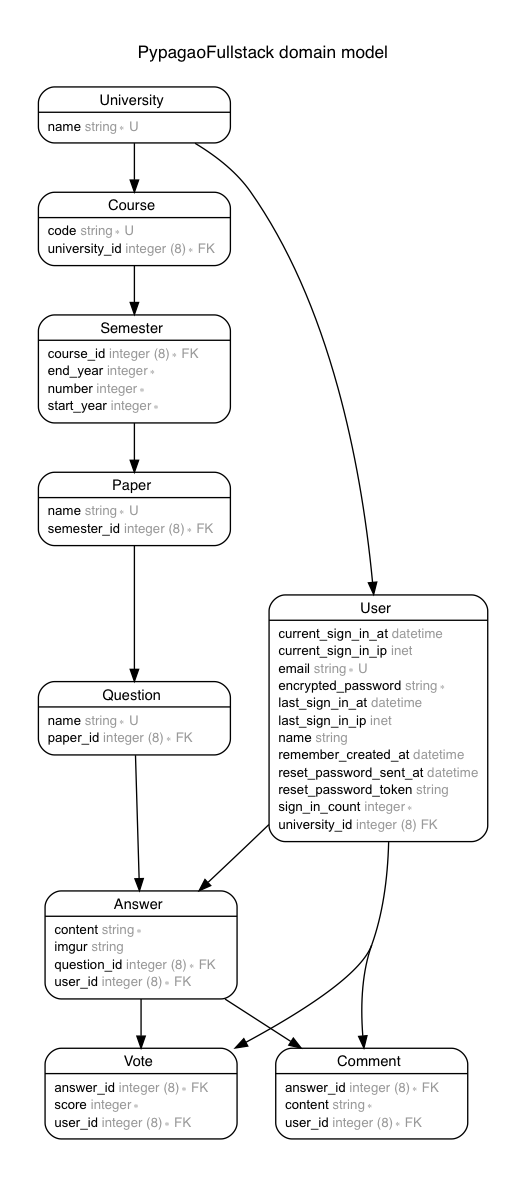
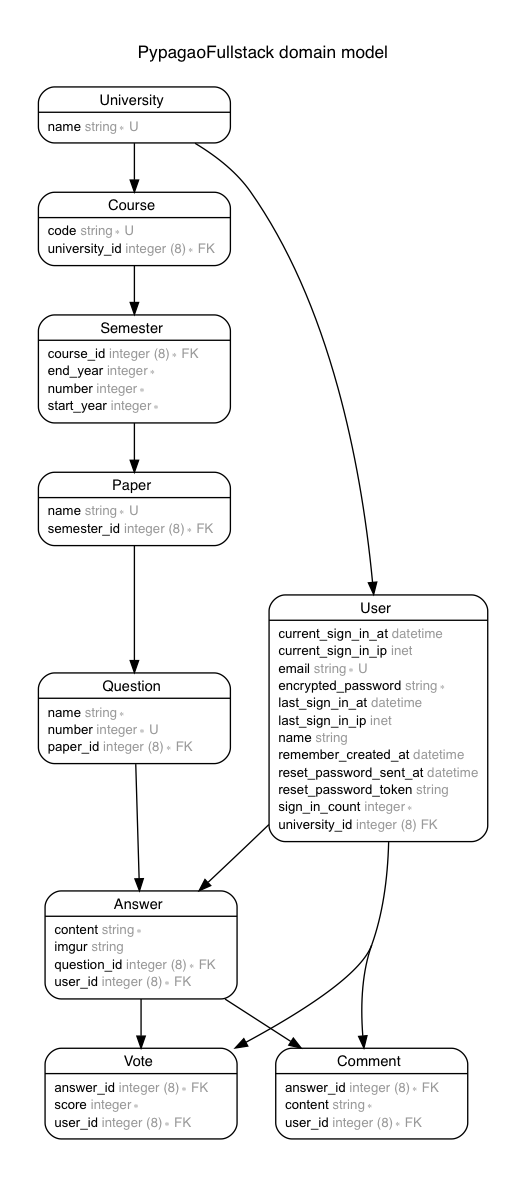
Implement upvote, downvote, answers#index

Changed region(s): [[0.0608, 0.5501, 0.4563, 0.6418]]

diff --git a/app/assets/stylesheets/questions.scss b/app/assets/stylesheets/questions.scss
@@ -1,0 +1,3 @@
+// Place all the styles related to the questions controller here.
+// They will automatically be included in application.css.
+// You can use Sass (SCSS) here: http://sass-lang.com/

diff --git a/app/assets/stylesheets/votes.scss b/app/assets/stylesheets/votes.scss
@@ -1,0 +1,3 @@
+// Place all the styles related to the votes controller here.
+// They will automatically be included in application.css.
+// You can use Sass (SCSS) here: http://sass-lang.com/

diff --git a/app/assets/javascripts/answers.js b/app/assets/javascripts/answers.js
@@ -1,0 +1,2 @@
+// Place all the behaviors and hooks related to the matching controller here.
+// All this logic will automatically be available in application.js.

diff --git a/app/assets/javascripts/questions.js b/app/assets/javascripts/questions.js
@@ -1,0 +1,2 @@
+// Place all the behaviors and hooks related to the matching controller here.
+// All this logic will automatically be available in application.js.

diff --git a/app/assets/javascripts/votes.js b/app/assets/javascripts/votes.js
@@ -1,0 +1,2 @@
+// Place all the behaviors and hooks related to the matching controller here.
+// All this logic will automatically be available in application.js.

diff --git a/app/assets/stylesheets/application.scss b/app/assets/stylesheets/application.scss
@@ -1,1 +1,5 @@
 @import 'bootstrap';
+@import 'font-awesome-sprockets';
+@import 'font-awesome';
+
+@import 'answers';

diff --git a/app/assets/stylesheets/answers.scss b/app/assets/stylesheets/answers.scss
@@ -1,0 +1,7 @@
+.selected {
+  color: orange;
+}
+
+.not-selected {
+  color: black;
+}

diff --git a/spec/models/vote_spec.rb b/spec/models/vote_spec.rb
@@ -1,11 +1,10 @@
 # frozen_string_literal: true
-
 # == Schema Information
 #
 # Table name: votes
 #
 #  id         :bigint(8)        not null, primary key
-#  score      :integer          not null
+#  score      :integer          default(0), not null
 #  created_at :datetime         not null
 #  updated_at :datetime         not null
 #  answer_id  :bigint(8)        not null
@@ -13,9 +12,10 @@
 #
 # Indexes
 #
-#  index_votes_on_answer_id  (answer_id)
-#  index_votes_on_score      (score) USING hash
-#  index_votes_on_user_id    (user_id)
+#  index_votes_on_answer_id              (answer_id)
+#  index_votes_on_answer_id_and_user_id  (answer_id,user_id) UNIQUE
+#  index_votes_on_score                  (score) USING hash
+#  index_votes_on_user_id                (user_id)
 #
 # Foreign Keys
 #
@@ -26,10 +26,12 @@
 require 'rails_helper'
 
 RSpec.describe Vote, type: :model do
+  let!(:vote) { create(:vote) }
   it { should belong_to(:user) }
   it { should belong_to(:answer) }
   it { should validate_presence_of(:score) }
   it { should validate_inclusion_of(:score).in_array([-1, 0, 1]) }
+  it { should validate_uniqueness_of(:answer_id).scoped_to(:user_id) }
 
   it 'has a valid factory' do
     expect(build(:vote)).to be_valid

diff --git a/db/schema.rb b/db/schema.rb
@@ -57,10 +57,11 @@ ActiveRecord::Schema.define(version: 2018_07_28_090407) do
 
   create_table "questions", force: :cascade do |t|
     t.string "name", null: false
+    t.integer "number", null: false
     t.bigint "paper_id", null: false
     t.datetime "created_at", null: false
     t.datetime "updated_at", null: false
-    t.index ["name"], name: "index_questions_on_name", unique: true
+    t.index ["number"], name: "index_questions_on_number", unique: true
     t.index ["paper_id"], name: "index_questions_on_paper_id"
   end
 
@@ -105,9 +106,10 @@ ActiveRecord::Schema.define(version: 2018_07_28_090407) do
   create_table "votes", force: :cascade do |t|
     t.bigint "answer_id", null: false
     t.bigint "user_id", null: false
-    t.integer "score", null: false
+    t.integer "score", default: 0, null: false
     t.datetime "created_at", null: false
     t.datetime "updated_at", null: false
+    t.index ["answer_id", "user_id"], name: "index_votes_on_answer_id_and_user_id", unique: true
     t.index ["answer_id"], name: "index_votes_on_answer_id"
     t.index ["score"], name: "index_votes_on_score", using: :hash
     t.index ["user_id"], name: "index_votes_on_user_id"

diff --git a/db/seeds.rb b/db/seeds.rb
@@ -35,9 +35,15 @@ semester = Semester.create(start_year: 2017,
                            number: 1,
                            course: cs1101s)
 paper = Paper.create(name: 'Finals', semester: semester)
-question = Question.create(name: 'Essence of Recursion', paper: paper)
-answer = Answer.create(content: 'make_fact',
-                       imgur: 'www.google.com',
-                       question: question,
-                       user: tiffany)
-Comment.create(content: 'y combinator', answer: answer, user: julius)
+question1 = Question.create(name: 'Essence of Recursion', number: 1, paper: paper)
+_question2 = Question.create(name: 'Vim vs emacs', number: 2, paper: paper)
+
+answer1 = Answer.create(content: 'make_fact',
+                        imgur: 'www.google.com',
+                        question: question1,
+                        user: tiffany)
+_answer2 = Answer.create(content: 'make_fact(make_fact',
+                         imgur: 'www.google.com',
+                         question: question1,
+                         user: julius)
+Comment.create(content: 'y combinator', answer: answer1, user: julius)

diff --git a/app/models/vote.rb b/app/models/vote.rb
@@ -1,11 +1,10 @@
 # frozen_string_literal: true
-
 # == Schema Information
 #
 # Table name: votes
 #
 #  id         :bigint(8)        not null, primary key
-#  score      :integer          not null
+#  score      :integer          default(0), not null
 #  created_at :datetime         not null
 #  updated_at :datetime         not null
 #  answer_id  :bigint(8)        not null
@@ -13,9 +12,10 @@
 #
 # Indexes
 #
-#  index_votes_on_answer_id  (answer_id)
-#  index_votes_on_score      (score) USING hash
-#  index_votes_on_user_id    (user_id)
+#  index_votes_on_answer_id              (answer_id)
+#  index_votes_on_answer_id_and_user_id  (answer_id,user_id) UNIQUE
+#  index_votes_on_score                  (score) USING hash
+#  index_votes_on_user_id                (user_id)
 #
 # Foreign Keys
 #
@@ -28,4 +28,5 @@ class Vote < ApplicationRecord
   belongs_to :user
 
   validates :score, presence: true, inclusion: { in: [-1, 0, 1] }
+  validates :answer_id, uniqueness: { scope: :user_id }
 end

diff --git a/spec/models/question_spec.rb b/spec/models/question_spec.rb
@@ -6,13 +6,14 @@
 #
 #  id         :bigint(8)        not null, primary key
 #  name       :string           not null
+#  number     :integer          not null
 #  created_at :datetime         not null
 #  updated_at :datetime         not null
 #  paper_id   :bigint(8)        not null
 #
 # Indexes
 #
-#  index_questions_on_name      (name) UNIQUE
+#  index_questions_on_number    (number) UNIQUE
 #  index_questions_on_paper_id  (paper_id)
 #
 # Foreign Keys
@@ -27,7 +28,9 @@ RSpec.describe Question, type: :model do
   it { should belong_to(:paper) }
   it { should have_many(:answers).dependent(:destroy) }
   it { should validate_presence_of(:name) }
-  it { should validate_uniqueness_of(:name).ignoring_case_sensitivity }
+  it { should validate_presence_of(:number) }
+  it { should validate_uniqueness_of(:number) }
+  it { should validate_numericality_of(:number).is_greater_than(0) }
 
   it 'has a valid factory' do
     expect(build(:question)).to be_valid
